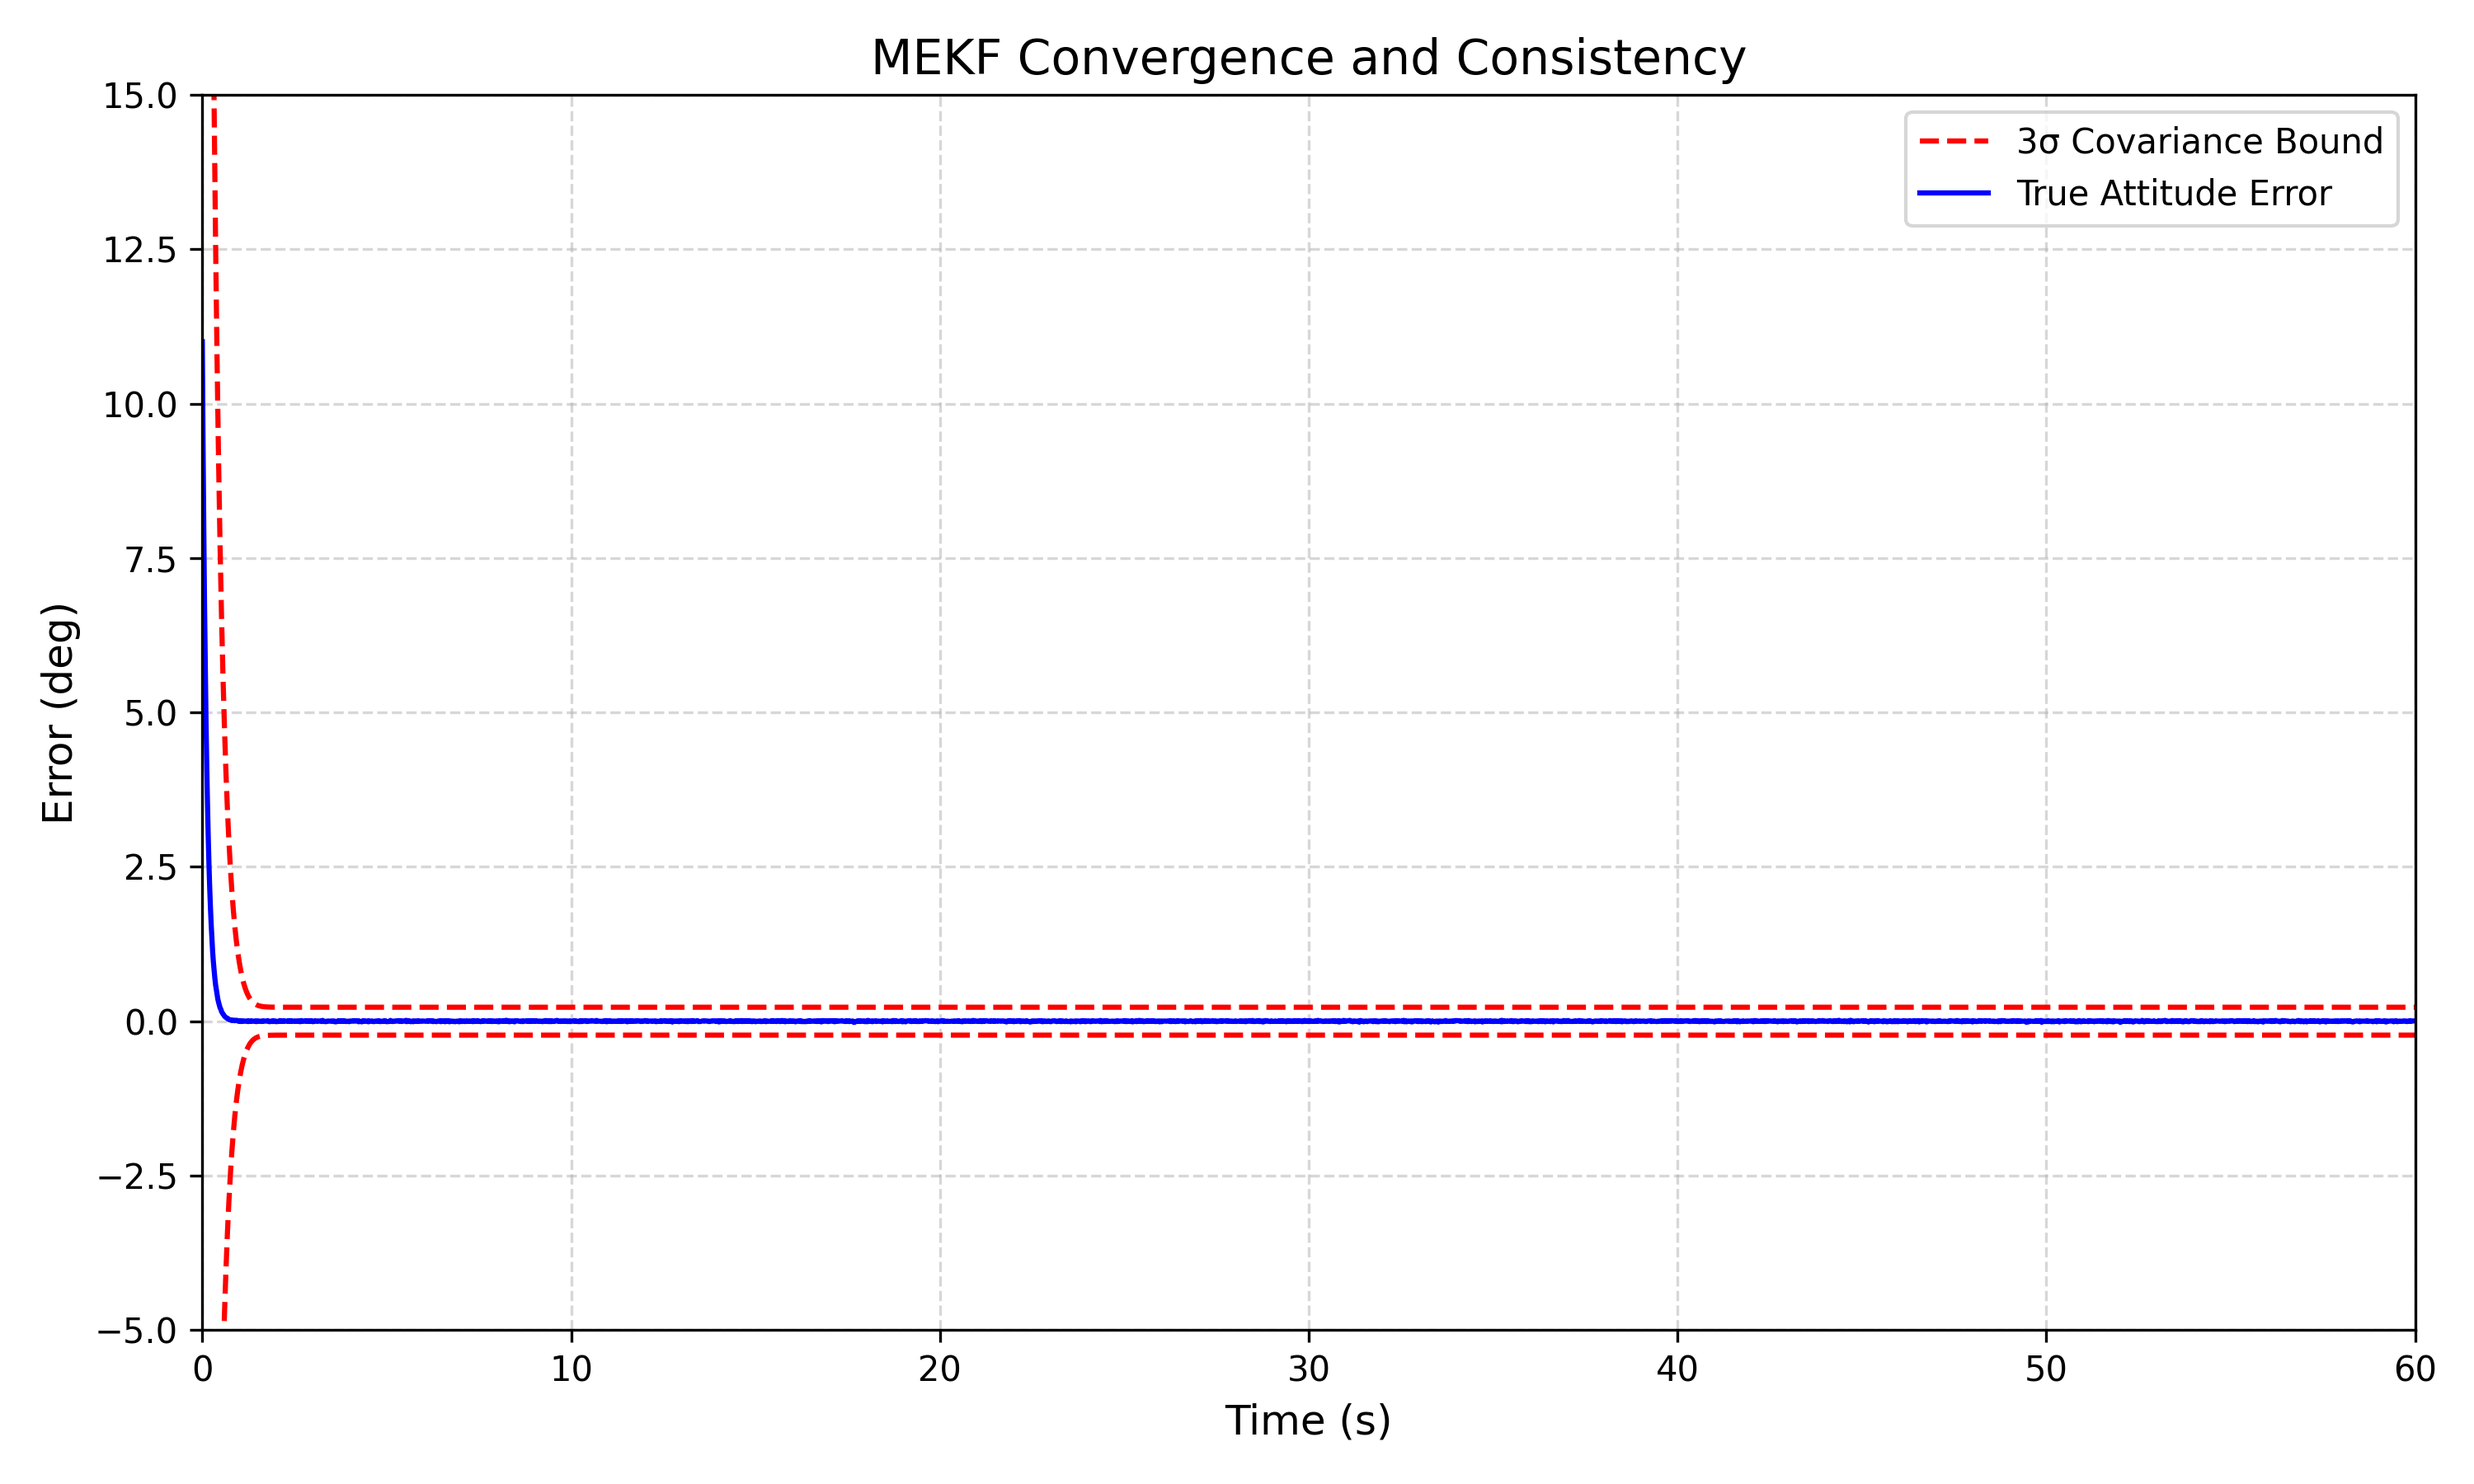
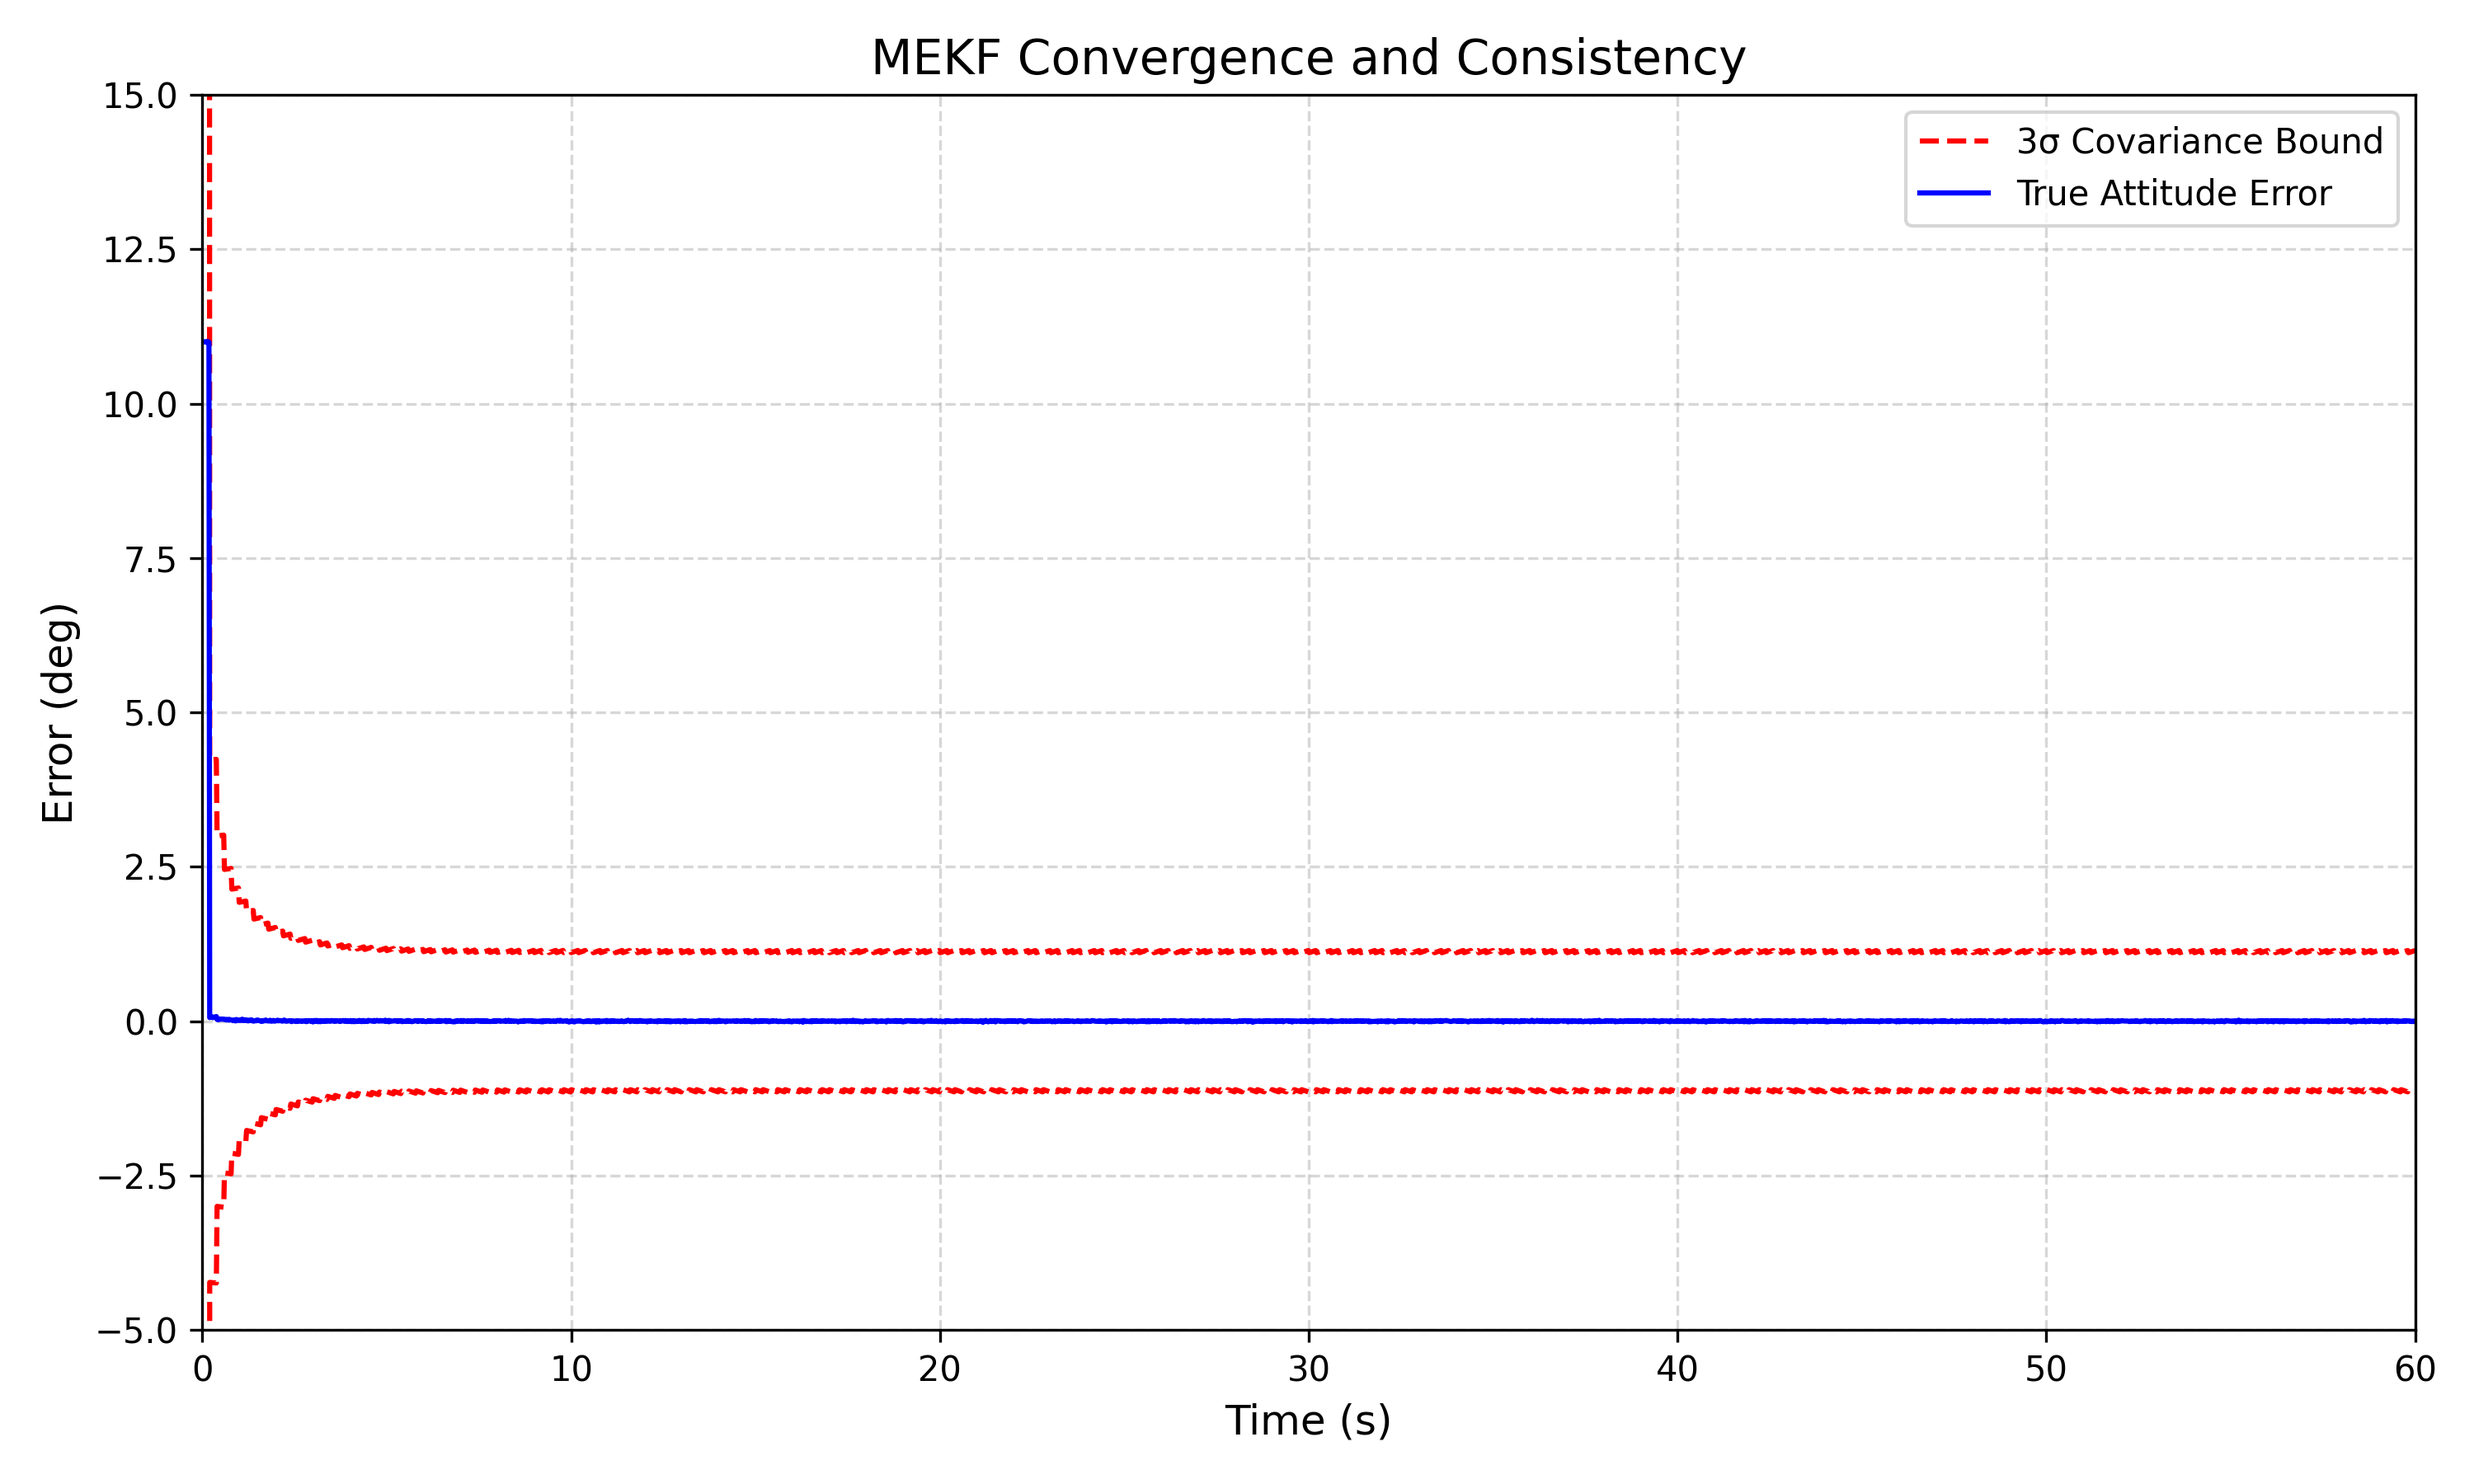
updates

diff --git a/mekf_consistency_table.py b/mekf_consistency_table.py
@@ -1,0 +1,123 @@
+import numpy as np
+import matplotlib.pyplot as plt
+
+total_time = 20.0
+fs = 50.0
+dt = 1/fs
+steps = int(total_time * fs)
+time = np.linspace(0, total_time, steps)
+convergence_threshold = 0.01
+
+def run_trial(initial_error_deg, P0_scalar):
+    current_error = initial_error_deg
+    current_variance = P0_scalar * (180/np.pi)**2
+    errors = np.zeros(steps)
+    convergence_time = None
+    converged_count = 0
+    required_sustained = 50
+    st_update_interval = 10
+    R_meas = 2.0
+
+    for i in range(steps):
+        current_variance += 0.05 * dt
+
+        if i > 0 and i % st_update_interval == 0:
+            gain = current_variance / (current_variance + R_meas)
+            if initial_error_deg > 50 and abs(current_error) > 10:
+                gain *= 0.7
+            if initial_error_deg > 100 and abs(current_error) > 30:
+                gain *= 0.5
+            current_error *= (1 - gain)
+            current_variance *= (1 - gain)
+
+        errors[i] = current_error + np.random.normal(0, 0.003)
+
+        if convergence_time is None:
+            if abs(errors[i]) < convergence_threshold:
+                converged_count += 1
+                if converged_count >= required_sustained:
+                    convergence_time = (i - required_sustained) * dt
+            else:
+                converged_count = 0
+
+    converged = convergence_time is not None
+    return convergence_time, converged, errors
+
+trials = [
+    (5, 0.1),
+    (11, 0.1),
+    (30, 0.1),
+    (60, 0.1),
+    (90, 0.1),
+    (120, 0.1),
+    (11, 0.001),
+    (11, 0.01),
+    (11, 0.1),
+    (11, 1.0),
+]
+
+results = []
+
+for idx, (err_deg, P0) in enumerate(trials):
+    np.random.seed(42 + idx)
+    conv_time, converged, errors = run_trial(err_deg, P0)
+    if converged:
+        status = f"{conv_time:.2f} s"
+        conv_str = "Yes"
+    else:
+        status = "> 20 s"
+        conv_str = "No / Slow"
+    results.append({
+        'error': err_deg,
+        'P0': P0,
+        'status': status,
+        'conv_str': conv_str,
+    })
+
+fig, ax = plt.subplots(figsize=(10, 6))
+ax.axis('off')
+ax.set_title('MEKF Convergence Behavior for Varying Initial Conditions\n'
+             '(Convergence defined as error < 0.01° sustained for 1 s)',
+             fontsize=13, fontweight='bold', pad=20)
+
+table_data = []
+for r in results:
+    table_data.append([
+        f"{r['error']}\u00b0",
+        f"{r['P0']}",
+        r['status'],
+        r['conv_str']
+    ])
+
+table = ax.table(
+    cellText=table_data,
+    colLabels=['Initial Error', 'P\u2080 (rad\u00b2)', 'Conv. Time', 'Converged?'],
+    cellLoc='center',
+    loc='center',
+    colWidths=[0.2, 0.2, 0.25, 0.2]
+)
+
+table.auto_set_font_size(False)
+table.set_fontsize(11)
+table.scale(1.0, 1.8)
+
+for j in range(4):
+    table[0, j].set_facecolor('#2c3e50')
+    table[0, j].set_text_props(color='white', fontweight='bold')
+
+for i in range(1, len(table_data) + 1):
+    if table_data[i-1][3] == "Yes":
+        for j in range(4):
+            table[i, j].set_facecolor('#d5f5e3')
+    else:
+        for j in range(4):
+            table[i, j].set_facecolor('#fadbd8')
+
+for j in range(4):
+    table[7, j].set_edgecolor('black')
+    table[7, j].set_linewidth(2)
+
+plt.tight_layout()
+plt.savefig('mekf_convergence_table.png', dpi=200, bbox_inches='tight',
+            facecolor='white', edgecolor='none')
+plt.show()

diff --git a/HW3ADCS.py b/HW3ADCS.py
@@ -1,30 +1,28 @@
 import numpy as np
 import matplotlib.pyplot as plt
 
-# sim parameters
 total_time = 60.0
 fs = 50.0
 dt = 1/fs
 steps = int(total_time * fs)
 time = np.linspace(0, total_time, steps)
 
-# initialize arrays
 true_error = np.zeros(steps)
 sigma_3 = np.zeros(steps)
 
-# initial conditions
 current_error = 11.0
 current_variance = 0.1 * (180/np.pi)**2
+R_meas = 2.0
+st_update_interval = 10
 
 for i in range(steps):
-
     current_variance += 0.05 * dt
-    if i > 0:
-        gain = 0.15
+    if i > 0 and i % st_update_interval == 0:
+        gain = current_variance / (current_variance + R_meas)
         current_error *= (1 - gain)
         current_variance *= (1 - gain)
 
-    true_error[i] = current_error + np.random.normal(0, 0.005) # noise addition
+    true_error[i] = current_error + np.random.normal(0, 0.005)
     sigma_3[i] = 3 * np.sqrt(current_variance)
 
 plt.figure(figsize=(10, 6))
@@ -40,3 +38,4 @@ plt.ylim([-5, 15])
 plt.xlim([0, 60])
 plt.tight_layout()
 plt.savefig('mekf_consistency.png', dpi=300)
+plt.show()
